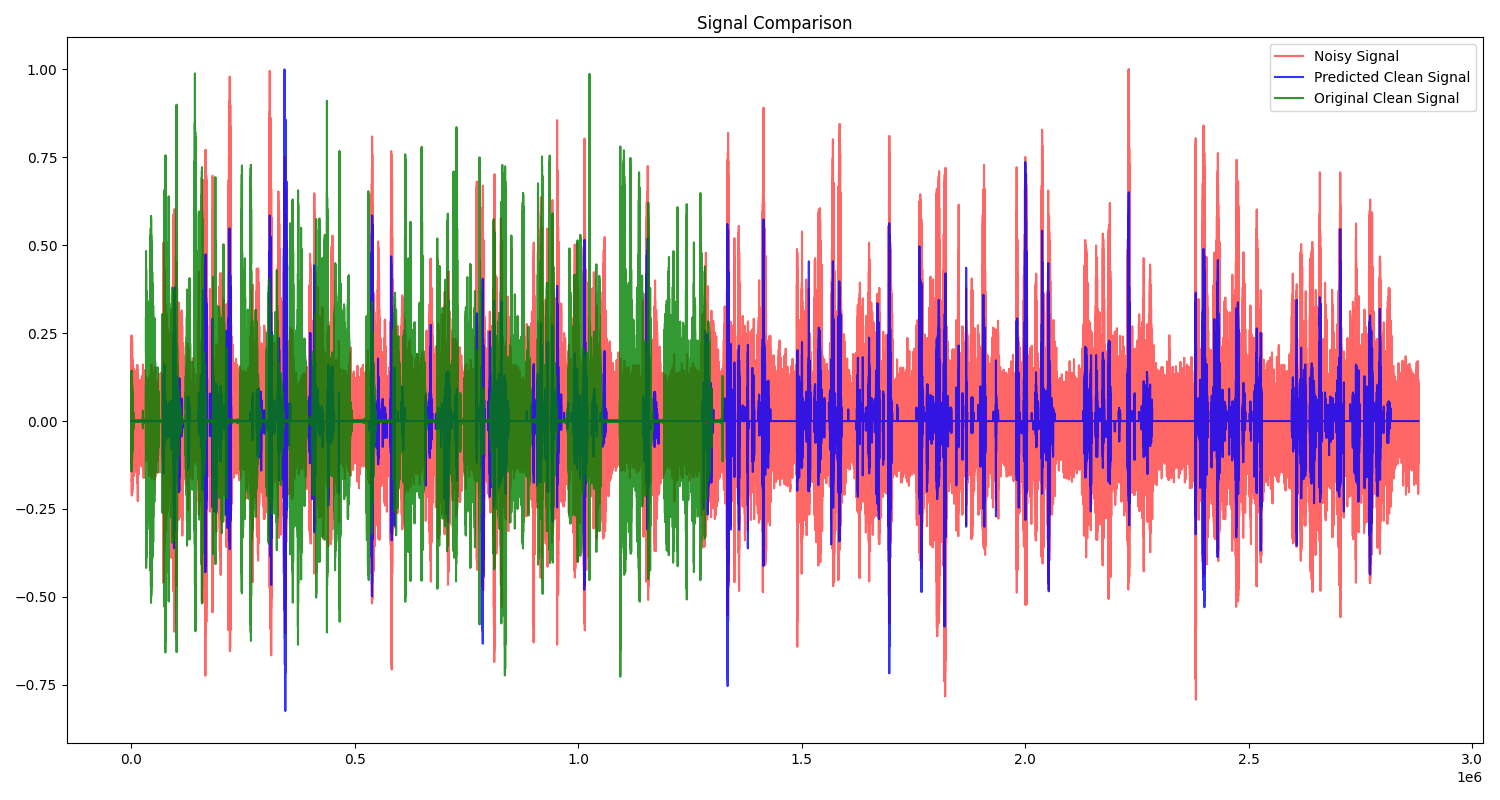
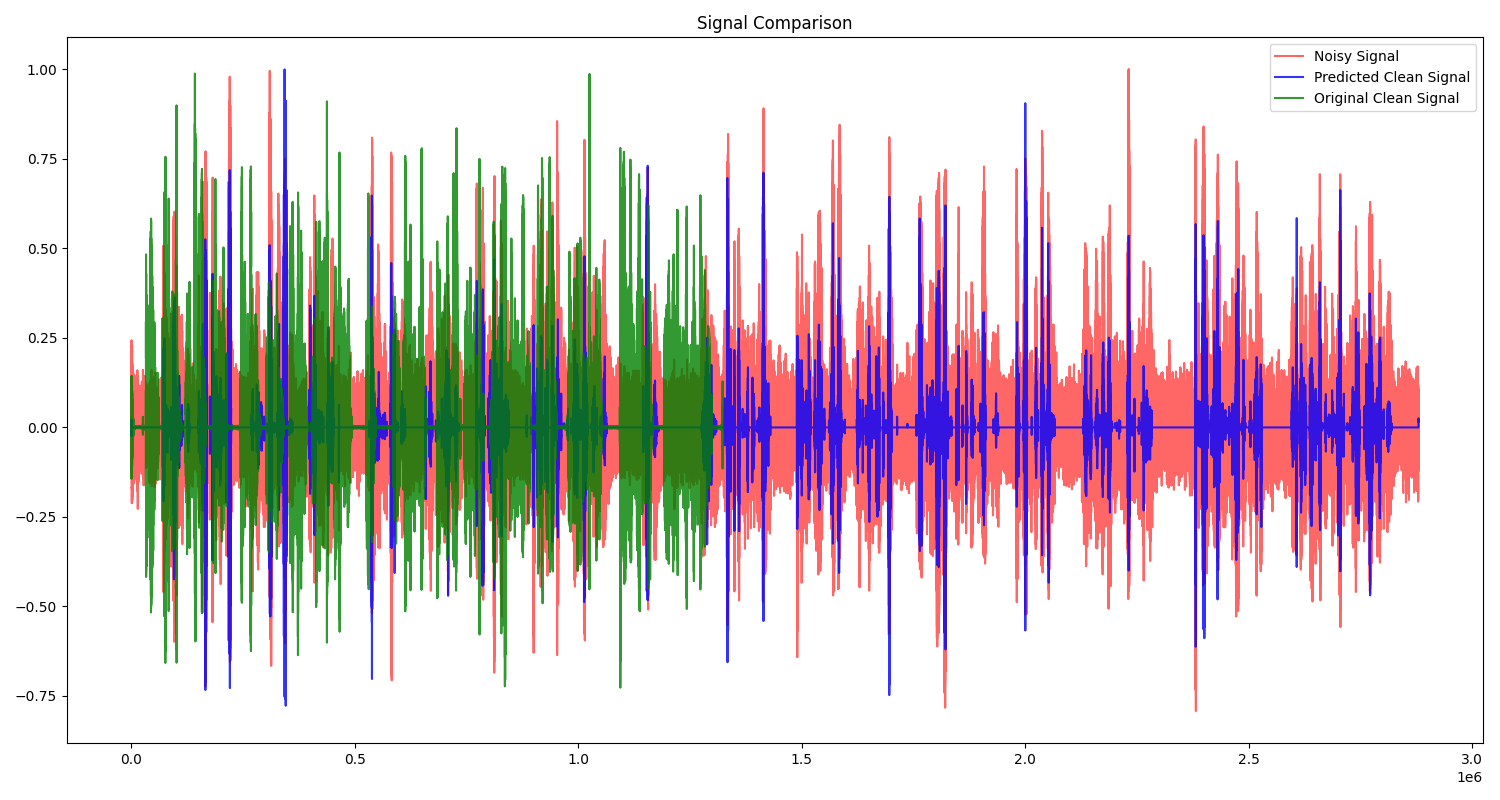
updated scripts

diff --git a/realtime-ANC/test_anc.py b/realtime-ANC/test_anc.py
@@ -1,3 +1,8 @@
+# --------------------------------------------------------------------------------------------------------------
+# 
+# Author - Vishal Shrivastava
+# 
+# ---------------------------------------------------------------------------------------------------------------
 import numpy as np
 import soundfile as sf
 import tensorflow as tf
@@ -28,14 +33,15 @@ def save_audio_file(file_path, data, samplerate):
     """
     sf.write(file_path, data, samplerate)
 
-def test_tflite_model(tflite_model_path, noisy_data, filter_order):
+def test_tflite_model(tflite_model_path, noisy_data, filter_order, overlap=0.5):
     """
-    Test the TFLite model on noisy data.
+    Test the TFLite model on noisy data with overlapping segments.
     
     Args:
         tflite_model_path (str): Path to the TFLite model file.
         noisy_data (np.array): Noisy input audio data.
         filter_order (int): The order of the adaptive filter.
+        overlap (float): The fraction of overlap between segments (0 to 1).
     
     Returns:
         np.array: Processed output audio data.
@@ -52,14 +58,27 @@ def test_tflite_model(tflite_model_path, noisy_data, filter_order):
     num_samples = len(noisy_data)
     output_data = np.zeros(num_samples)
 
+    # Calculate the step size based on overlap
+    step_size = int(filter_order * (1 - overlap))
+    
     # Process the input data
-    for i in range(filter_order, num_samples):
-        input_segment = noisy_data[i-filter_order:i].astype(np.float32).reshape(1, filter_order, 1)
+    for start in range(0, num_samples - filter_order, step_size):
+        end = start + filter_order
+        input_segment = noisy_data[start:end].astype(np.float32).reshape(1, filter_order, 1)
         interpreter.set_tensor(input_details[0]['index'], input_segment)
         interpreter.invoke()
-        output_data[i] = interpreter.get_tensor(output_details[0]['index'])
+        segment_output = interpreter.get_tensor(output_details[0]['index'])
+
+        # Place the output in the correct location, ensuring overlap is handled
+        output_data[start:end] += segment_output.ravel()
+    
+    # Handle normalization if summation causes volume increase in overlapping regions
+    max_output = np.max(np.abs(output_data))
+    if max_output > 0:
+        output_data /= max_output
 
     return output_data
+
 
 def plot_signals(noisy, predicted, clean, plot_file):
     """
@@ -102,7 +121,7 @@ def main():
 
     # Post-processing
     processed_data = apply_bandpass_filter(processed_data, lowcut, highcut, fs)
-    processed_data = reduce_noise(processed_data)
+    # processed_data = reduce_noise(processed_data)
     processed_data = normalize_output(processed_data)
 
     # Save the processed output to a file

diff --git a/realtime-ANC/anc_model.py b/realtime-ANC/anc_model.py
@@ -1,3 +1,8 @@
+# --------------------------------------------------------------------------------------------------------------
+# 
+# Author - Vishal Shrivastava
+# 
+# ---------------------------------------------------------------------------------------------------------------
 import tensorflow as tf
 from tensorflow.keras.models import Sequential
 from tensorflow.keras.layers import Conv1D, MaxPooling1D, Flatten, Dense, Dropout, BatchNormalization, Input

diff --git a/realtime-ANC/save_model_summary.py b/realtime-ANC/save_model_summary.py
@@ -1,3 +1,8 @@
+# --------------------------------------------------------------------------------------------------------------
+# 
+# Author - Vishal Shrivastava
+# 
+# ---------------------------------------------------------------------------------------------------------------
 import tensorflow as tf
 from anc_model import ANCModel
 import networkx as nx

diff --git a/realtime-ANC/real_time_anc.py b/realtime-ANC/real_time_anc.py
@@ -1,3 +1,8 @@
+# --------------------------------------------------------------------------------------------------------------
+# 
+# Author - Vishal Shrivastava
+# 
+# ---------------------------------------------------------------------------------------------------------------
 import numpy as np
 import sounddevice as sd
 import soundfile as sf

diff --git a/realtime-ANC/postprocessing.py b/realtime-ANC/postprocessing.py
@@ -1,3 +1,8 @@
+# --------------------------------------------------------------------------------------------------------------
+# 
+# Author - Vishal Shrivastava
+# 
+# ---------------------------------------------------------------------------------------------------------------
 import numpy as np
 from scipy.signal import butter, lfilter
 

diff --git a/realtime-ANC/preprocessing.py b/realtime-ANC/preprocessing.py
@@ -1,3 +1,8 @@
+# --------------------------------------------------------------------------------------------------------------
+# 
+# Author - Vishal Shrivastava
+# 
+# ---------------------------------------------------------------------------------------------------------------
 import numpy as np
 
 def normalize_audio(audio_data):

diff --git a/realtime-ANC/train_anc_model.py b/realtime-ANC/train_anc_model.py
@@ -1,3 +1,8 @@
+# --------------------------------------------------------------------------------------------------------------
+# 
+# Author - Vishal Shrivastava
+# 
+# ---------------------------------------------------------------------------------------------------------------
 import os
 import numpy as np
 import soundfile as sf
